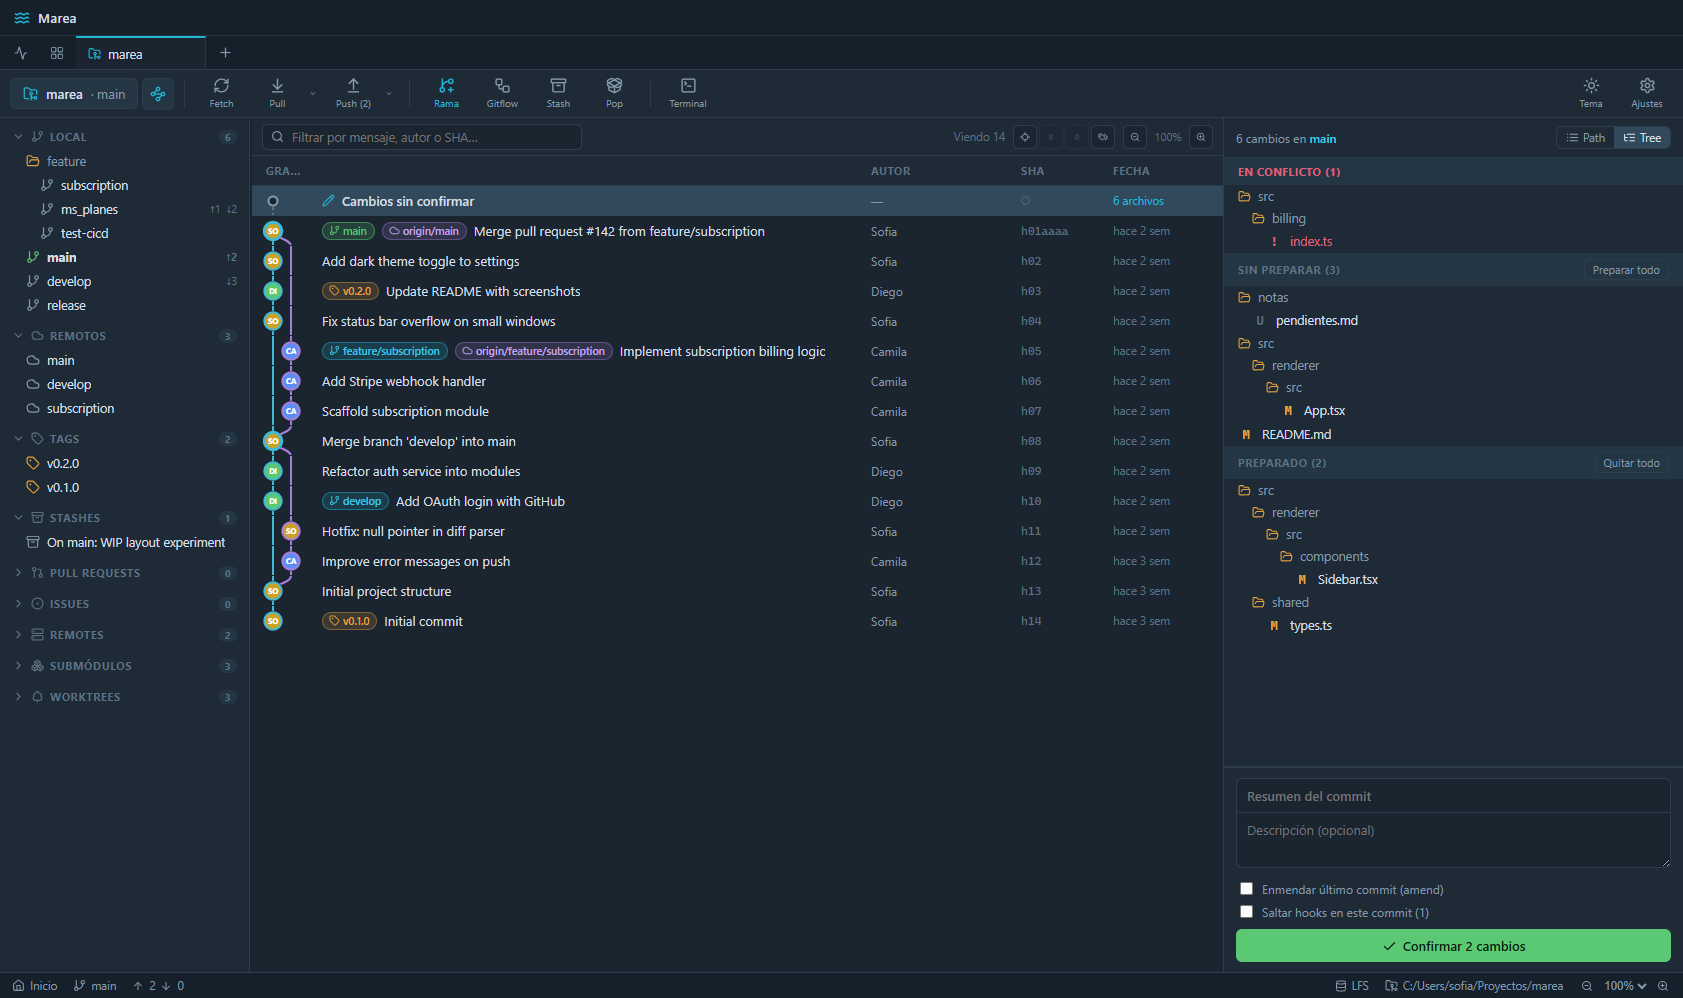
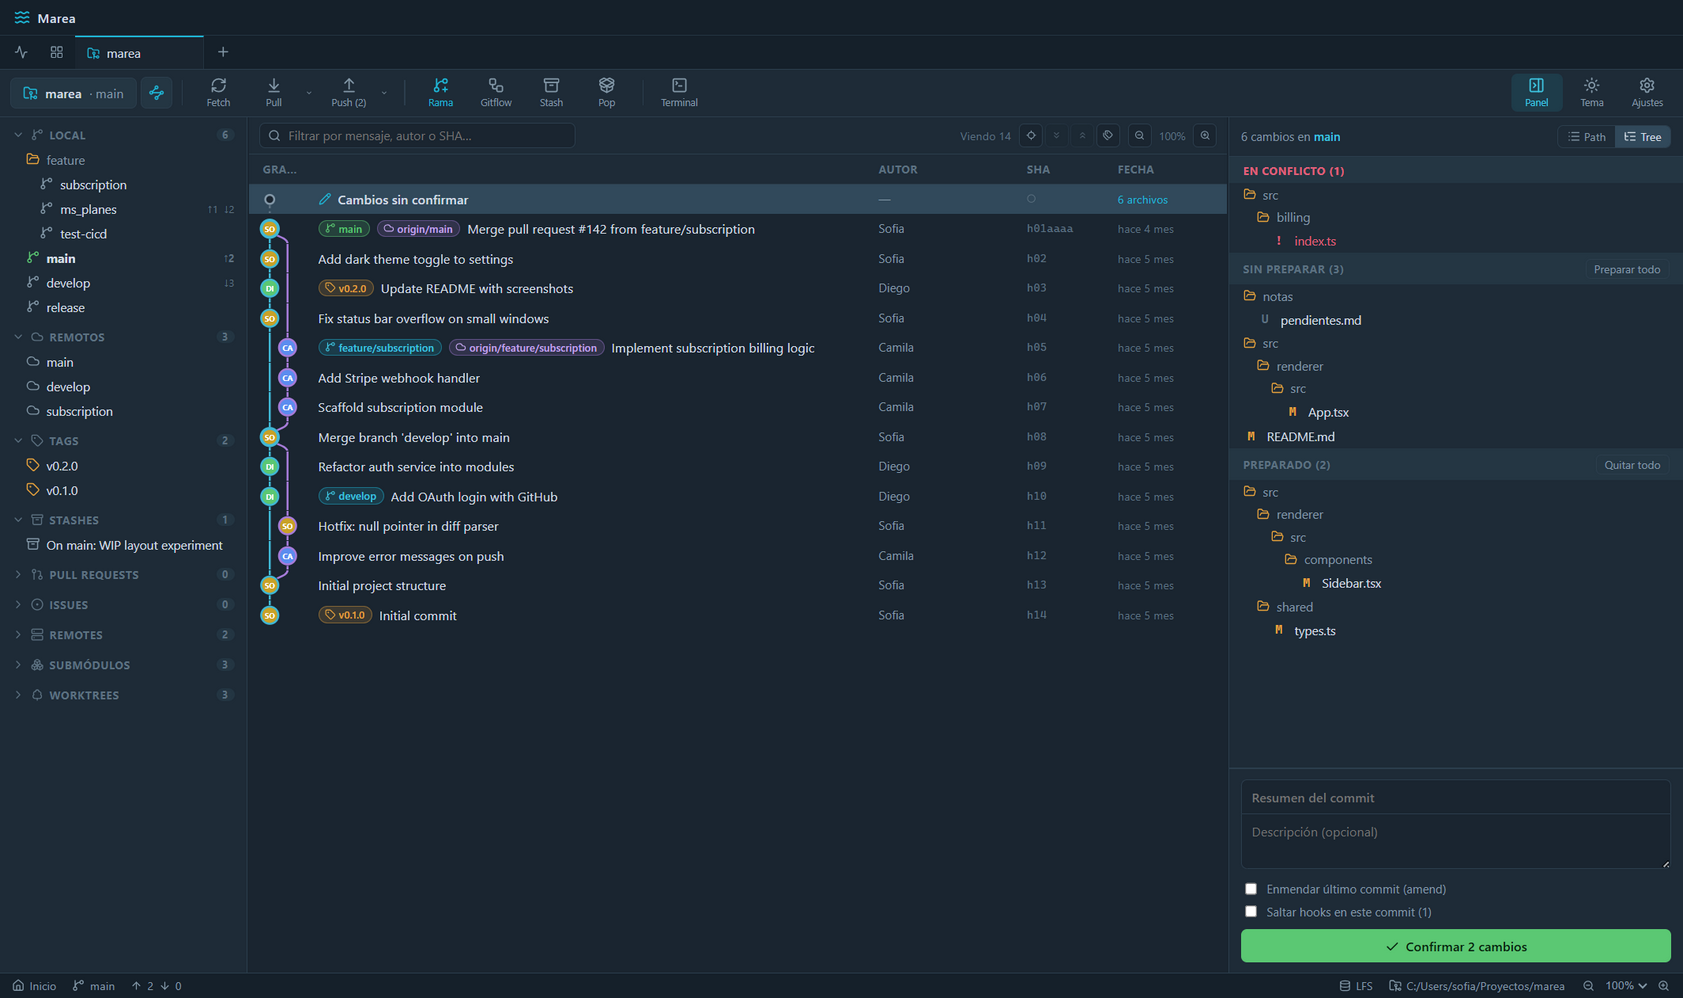
docs: manual y capturas al día, y versión 0.2.4
- Manual: botón «Panel», redimensionar y ocultar el panel derecho, el
  diálogo de crear PR y el merge con commit de merge. Capturas regeneradas
  de la ventana, la barra de herramientas y el diálogo de PR.
- README y notas de compilación con la versión 0.2.4.

diff --git a/MANUAL-USUARIO.md b/MANUAL-USUARIO.md
@@ -101,7 +101,7 @@ Si alguna palabra se te escapa, al final está el [Glosario](#36-glosario).
 ### Windows (instalador `.exe`)
 
 1. Descarga el archivo **`Marea-<versión>-win-x64.exe`** (por ejemplo
-   `Marea-0.2.2-win-x64.exe`).
+   `Marea-0.2.4-win-x64.exe`).
 2. Haz **doble clic** sobre él.
 3. Si Windows muestra un aviso de seguridad («Windows protegió tu PC»), pulsa
    **«Más información»** y luego **«Ejecutar de todas formas»** (esto aparece
@@ -236,7 +236,8 @@ Cuando abres un repositorio, la ventana se organiza en estas zonas:
 - **Panel central**: normalmente el **grafo de commits**; según lo que
   selecciones, cambia a un diff, una comparación, un pull request, etc.
 - **Panel derecho**: tus **cambios sin confirmar** o el **detalle** del commit
-  que elijas.
+  que elijas. Puedes **ensancharlo o estrecharlo** arrastrando su borde
+  izquierdo y **ocultarlo** con el botón **Panel** de la barra de herramientas.
 - **Barra de estado** (abajo del todo): rama actual, contadores, ruta del repo y
   zoom.
 
@@ -253,6 +254,8 @@ De izquierda a derecha:
 - **Gitflow**: flujo de features/releases/hotfixes (sección 25).
 - **Stash** y **Pop**: guardar y recuperar cambios «en un cajón» (sección 14).
 - **Terminal**: abre una consola dentro del repo (sección 24).
+- **Panel**: muestra u oculta el panel derecho (cambios / detalle del commit).
+  Se ve resaltado mientras el panel está visible. Atajo: **Ctrl + J**.
 - **Tema**: cambia entre claro y oscuro.
 - **Ajustes**: preferencias de la aplicación (sección 28).
 
@@ -381,6 +384,13 @@ Los cambios se agrupan en tres bloques:
 Arriba a la derecha, **Path / Tree** cambia entre ver la lista de archivos plana
 o como árbol de carpetas.
 
+Si las rutas no caben, **arrastra el borde izquierdo del panel** para
+ensancharlo (el cursor cambia a ↔ al pasar por encima). Marea recuerda el ancho
+la próxima vez que abras la app; **doble clic** en ese borde lo devuelve al
+ancho por defecto. Para ganar espacio para el grafo puedes **ocultar el panel**
+con el botón **Panel** de la barra de herramientas (o **Ctrl + J**) y volver a
+mostrarlo igual.
+
 ### 9.1. Preparar (stage) y quitar
 
 «Preparar» un archivo es decir «este cambio entra en el próximo commit».
@@ -499,7 +509,10 @@ resaltada.
 ![Menú de una rama](manual-usuario/img/62-rama-menu.png)
 
 - **Checkout**: cambiarte a esa rama (también con doble clic).
-- **Merge «rama» en <actual>**: traer el trabajo de esa rama a la tuya.
+- **Merge «rama» en <actual>**: traer el trabajo de esa rama a la tuya. Igual
+  que en GitKraken, crea **siempre un commit de merge**, aunque Git pudiera
+  simplemente avanzar tu rama (*fast-forward*). Así el historial deja ver
+  cuándo se juntaron las dos ramas.
 - **Rebase** y **Rebase interactivo** (sección 18).
 - **Comparar** con la rama actual o con tu trabajo.
 - **Crear worktree** (sección 20).
@@ -514,6 +527,13 @@ resaltada.
 
 > **Arrastrar y soltar:** puedes arrastrar una rama sobre otra rama o sobre un
 > commit para hacer merge/rebase; Marea te ofrecerá las opciones al soltar.
+> Al soltar una rama sobre otra verás, entre otras:
+>
+> - **Fast-forward «destino» a «origen»**: avanza la rama destino sin crear
+>   commit de merge (solo funciona si no hay divergencia).
+> - **Merge «origen» en «destino»**: crea siempre un commit de merge, como en
+>   GitKraken.
+> - **Squash merge** y **Rebase**.
 
 ### 11.3. El «objetivo de merge»
 
@@ -803,11 +823,18 @@ Pull Request**.
 ![Crear Pull Request](manual-usuario/img/121-pr-crear.png)
 
 1. Elige el proveedor (**GitHub**).
-2. Revisa **From** (tu rama) y **To** (la rama destino).
+2. Revisa **Branch (desde)** (tu rama) y **Branch (hacia)** (la rama destino).
+   Si el nombre de una rama es muy largo se recorta con «…»; pasa el ratón por
+   encima del selector para ver el nombre completo.
 3. Escribe un **Título** y una **Descripción**.
 4. Opcional: añade **Reviewers**, **Assignees** y **Labels**; marca **borrador
    (draft)** si aún no está listo.
-5. Pulsa el botón de crear. El PR se publica en GitHub.
+5. Pulsa **Create Pull Request**. El PR se publica en GitHub.
+
+Los botones de abajo quedan siempre visibles aunque la ventana sea baja (lo que
+se desplaza es el formulario). **Continuar en GitHub**, abajo a la izquierda,
+abre la página de comparación de GitHub con las dos ramas elegidas por si
+prefieres terminar el PR en el navegador.
 
 ### 22.2. Revisar un Pull Request
 
@@ -1016,8 +1043,12 @@ a la izquierda) o desde la bienvenida.
 - **Zoom**: con **Ctrl + =** (acercar), **Ctrl + –** (alejar), **Ctrl + 0**
   (restablecer) o el control de la barra de estado.
 - **Ocultar paneles**: en *Ajustes → General*, o con **Ctrl + K** (panel
-  izquierdo) y **Ctrl + J** (panel derecho). El borde del panel izquierdo se
-  **arrastra** para cambiar su ancho.
+  izquierdo) y **Ctrl + J** (panel derecho). El panel derecho también tiene el
+  botón **Panel** en la barra de herramientas.
+- **Ancho de los paneles**: el borde de los dos paneles laterales se
+  **arrastra** para cambiar su ancho, y Marea lo recuerda. **Doble clic** en el
+  borde vuelve al ancho por defecto. El panel derecho nunca pasa del 60 % de la
+  ventana, para que el grafo siga a la vista.
 
 ---
 

diff --git a/notas-compilacion/PASOS-EXACTOS-DEB-APPIMAGE-UBUNTU.md b/notas-compilacion/PASOS-EXACTOS-DEB-APPIMAGE-UBUNTU.md
@@ -62,8 +62,8 @@ ls -lh release/Marea-*-linux-*
 
 Resultado:
 
-- `release/Marea-0.2.2-linux-amd64.deb` (~100 MB)
-- `release/Marea-0.2.2-linux-x86_64.AppImage` (~130 MB)
+- `release/Marea-0.2.4-linux-amd64.deb` (~100 MB)
+- `release/Marea-0.2.4-linux-x86_64.AppImage` (~130 MB)
 
 En el log debe aparecer `preparing moduleName=node-pty` y
 `finished moduleName=node-pty`. Comprobación rápida de que el `.deb` lleva el
@@ -83,7 +83,7 @@ cp ~/marea/release/Marea-*-linux-* /mnt/c/ruta/a/marea/release/
 
 ```bash
 cd ~/marea/release
-sudo apt install ./Marea-0.2.2-linux-amd64.deb
+sudo apt install ./Marea-0.2.4-linux-amd64.deb
 marea
 ```
 
@@ -100,8 +100,8 @@ marea
 
 ```bash
 cd ~/marea/release
-chmod +x Marea-0.2.2-linux-x86_64.AppImage
-./Marea-0.2.2-linux-x86_64.AppImage
+chmod +x Marea-0.2.4-linux-x86_64.AppImage
+./Marea-0.2.4-linux-x86_64.AppImage
 ```
 
 - `dlopen(): error loading libfuse.so.2` → falta FUSE 2:
@@ -110,7 +110,7 @@ chmod +x Marea-0.2.2-linux-x86_64.AppImage
   AppImage de Electron puede cerrarse con
   `The SUID sandbox helper binary was found, but is not configured correctly`.
   El AppImage no instala perfil de AppArmor (el `.deb` sí). Soluciones: usar
-  el `.deb`, o lanzar con `./Marea-0.2.2-linux-x86_64.AppImage --no-sandbox`.
+  el `.deb`, o lanzar con `./Marea-0.2.4-linux-x86_64.AppImage --no-sandbox`.
   En WSL no pasa (su kernel no activa AppArmor), así que esto **no** se ha
   podido comprobar aquí.
 

diff --git a/notas-compilacion/PASOS-EXACTOS-EXE-WINDOWS.md b/notas-compilacion/PASOS-EXACTOS-EXE-WINDOWS.md
@@ -61,7 +61,7 @@ Comprueba:
 
 Para probar el instalador completo:
 
-1. Doble clic en `release\Marea-0.2.2-win-x64.exe`.
+1. Doble clic en `release\Marea-0.2.4-win-x64.exe`.
 2. Si SmartScreen avisa («Windows protegió tu PC»): **Más información** →
    **Ejecutar de todas formas** (el instalador no está firmado; es normal).
 3. Instala, abre Marea desde el acceso directo y prueba abrir un repositorio.
@@ -70,20 +70,20 @@ Para probar el instalador completo:
 
 Sube este archivo al release correspondiente:
 
-- `release\Marea-0.2.2-win-x64.exe`
+- `release\Marea-0.2.4-win-x64.exe`
 
 (El `.blockmap`, `latest.yml` y `builder-debug.yml` no hace falta subirlos.)
 
 ## Si cambias de versión
 
-La versión sale de `package.json` (ahora **0.2.2**). Para la siguiente,
+La versión sale de `package.json` (ahora **0.2.4**). Para la siguiente,
 actualízala sin crear tag:
 
 ```bash
-npm version 0.2.3 --no-git-tag-version
+npm version 0.2.5 --no-git-tag-version
 ```
 
-El instalador saldrá como `Marea-0.2.3-win-x64.exe` (el nombre lo arma
+El instalador saldrá como `Marea-0.2.5-win-x64.exe` (el nombre lo arma
 `artifactName` en `electron-builder.yml`).
 
 ## Detalles que ya están configurados (no hay que tocarlos)

diff --git a/notas-compilacion/COMPILAR_DESDE_WSL.md b/notas-compilacion/COMPILAR_DESDE_WSL.md
@@ -18,8 +18,8 @@ los binarios desde Windows con WSL.
 
 La compilación final quedó correcta. Se generaron estos artefactos en `release/`:
 
-- `Marea-0.2.2-linux-x86_64.AppImage`
-- `Marea-0.2.2-linux-amd64.deb`
+- `Marea-0.2.4-linux-x86_64.AppImage`
+- `Marea-0.2.4-linux-amd64.deb`
 
 El problema principal no era Ubuntu, sino el empaquetado de `node-pty` y una
 configuración de `electron-builder` que necesitaba ajustes para Linux.
@@ -152,8 +152,8 @@ sudo apt autoremove --purge
 ### Ejecutar el AppImage
 
 ```bash
-chmod +x Marea-0.2.2-linux-x86_64.AppImage
-./Marea-0.2.2-linux-x86_64.AppImage
+chmod +x Marea-0.2.4-linux-x86_64.AppImage
+./Marea-0.2.4-linux-x86_64.AppImage
 ```
 
 Si falta FUSE:

diff --git a/README.md b/README.md
@@ -173,8 +173,10 @@ npx electron-builder --linux -c.npmRebuild=true
 - **Firmas GPG/SSH** (insignia de verificación por commit), hooks,
   **Gitflow** y **Bisect** visuales, **Git LFS**.
 - **Cuentas** multiproveedor cifradas con `safeStorage` del sistema.
-- **Preferencias**: tema claro/oscuro, zoom, paneles, **atajos reasignables**,
+- **Preferencias**: tema claro/oscuro, zoom, **atajos reasignables**,
   git config global/local, elegir ejecutable de git.
+- **Paneles laterales** redimensionables con el ratón (el ancho se recuerda) y
+  ocultables desde la barra de herramientas o con atajo.
 
 ### Ideas futuras
 
